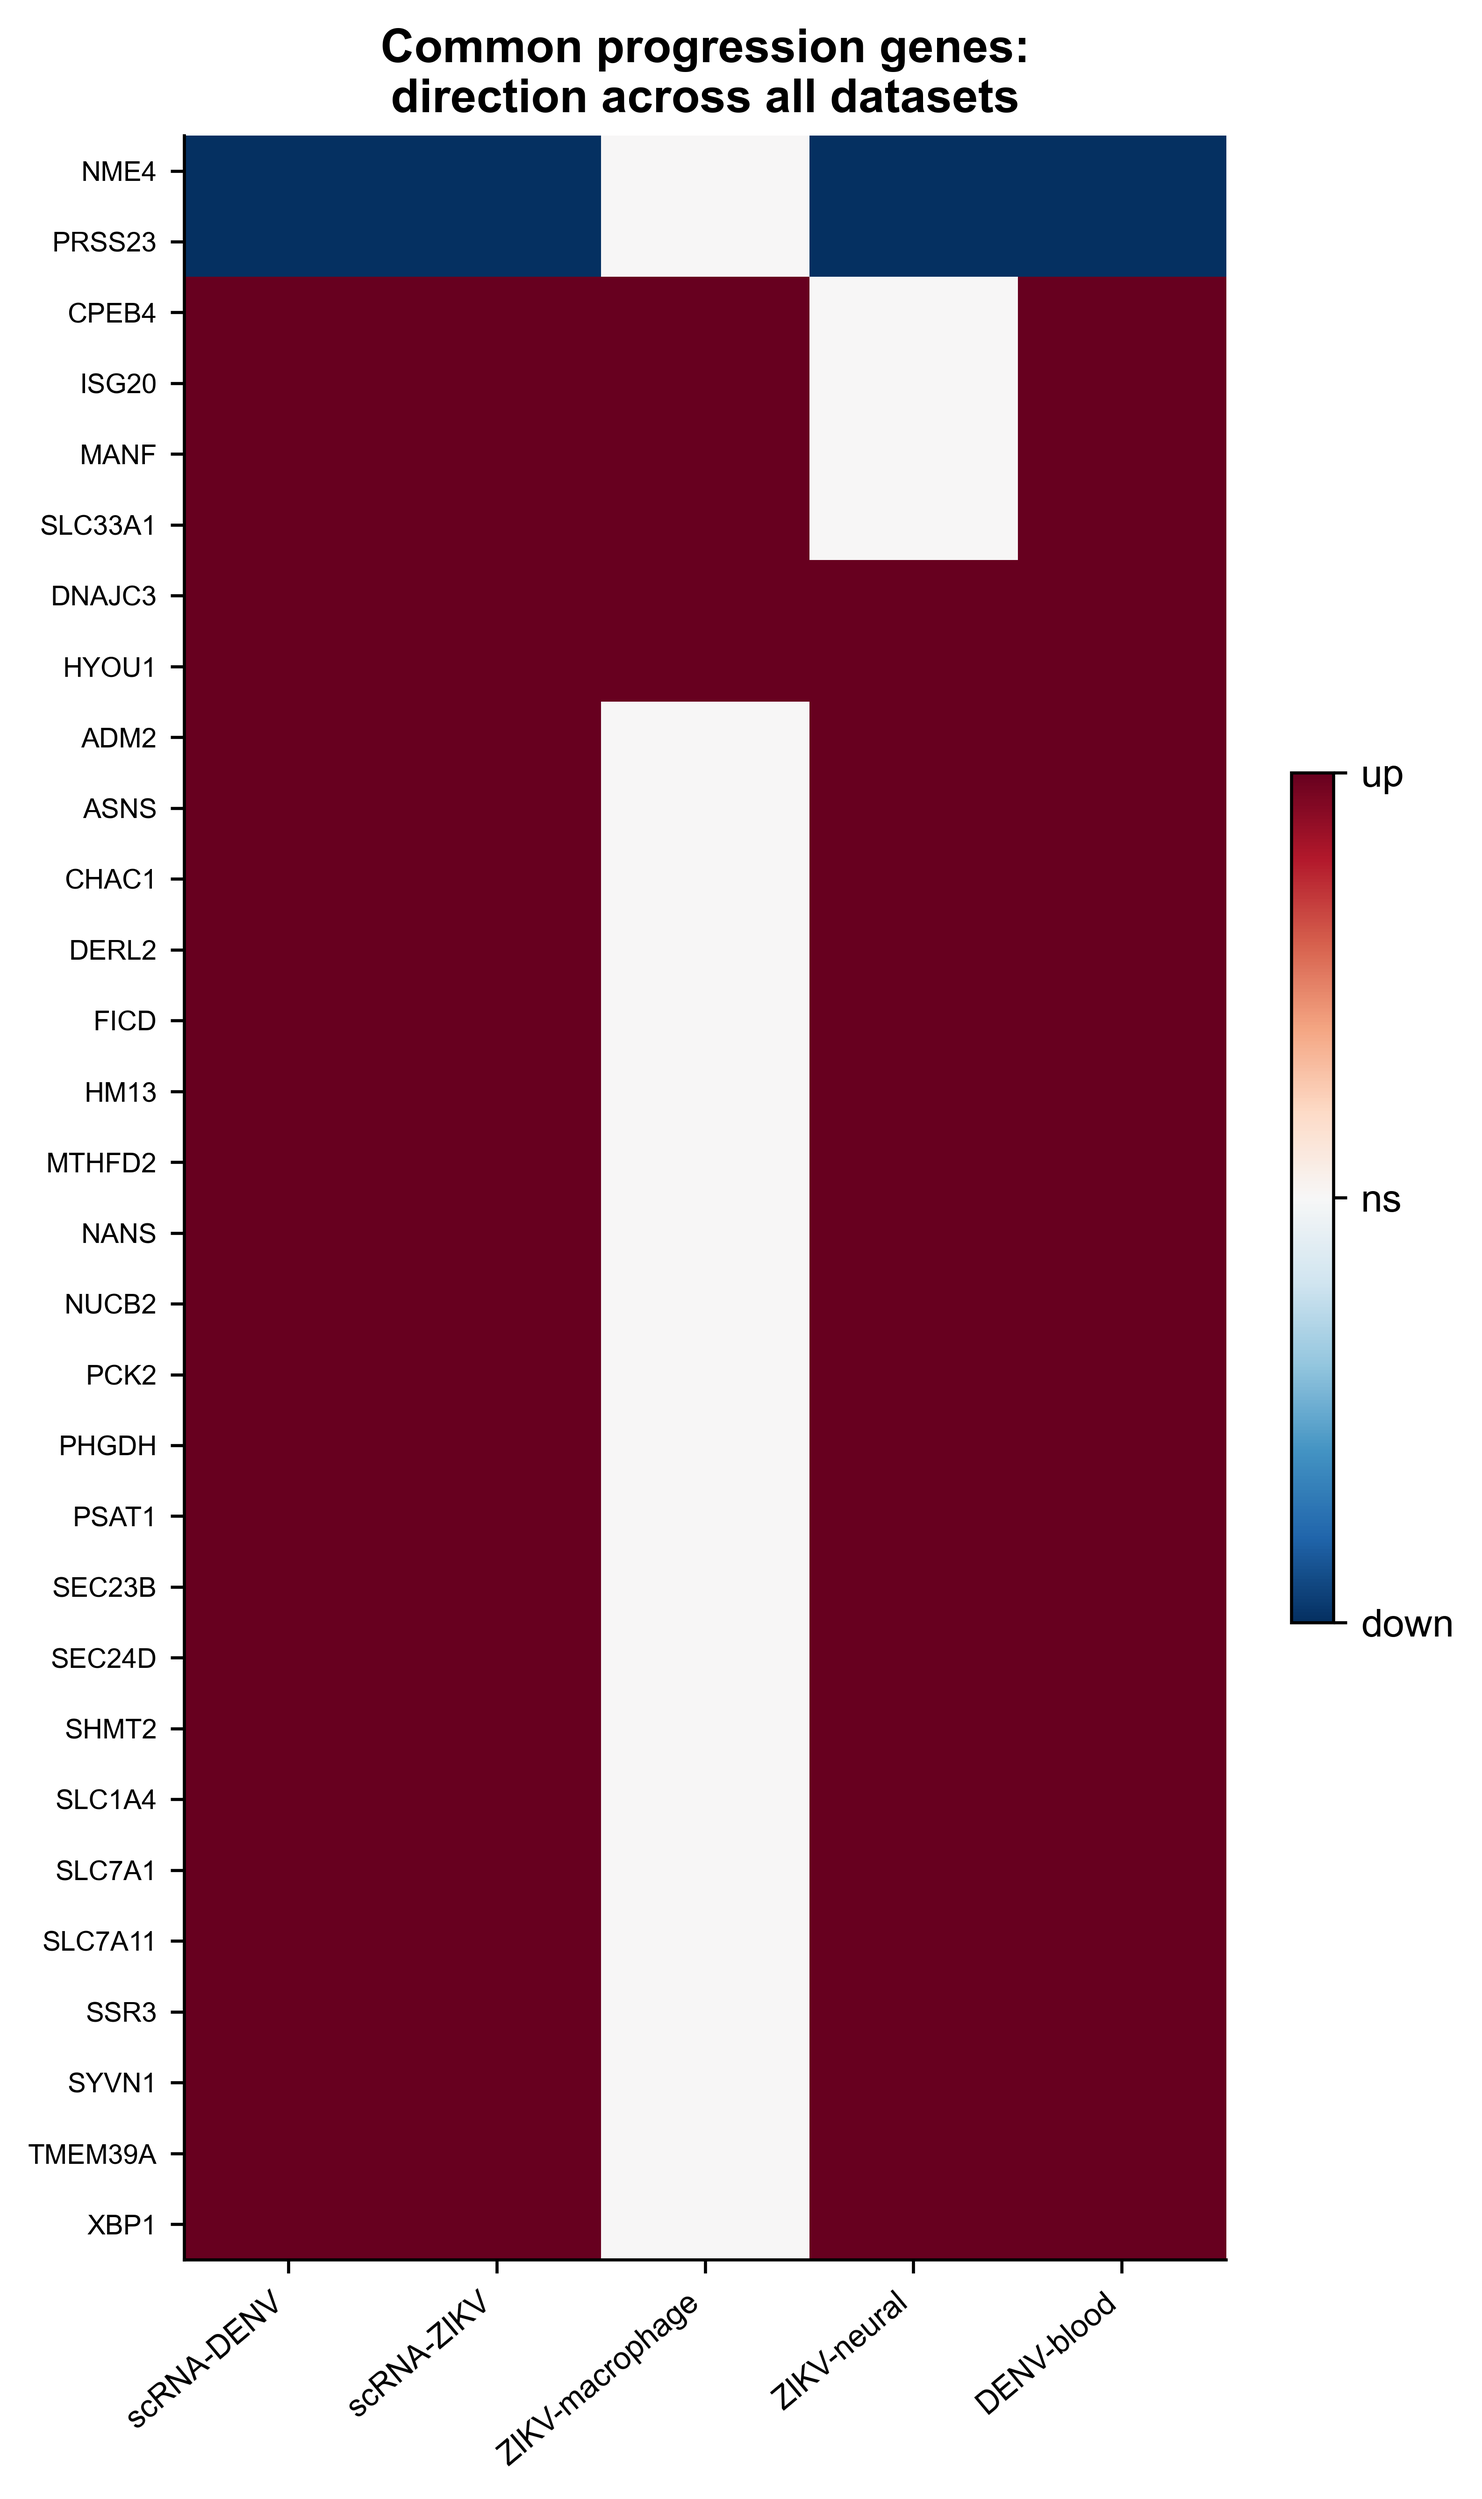
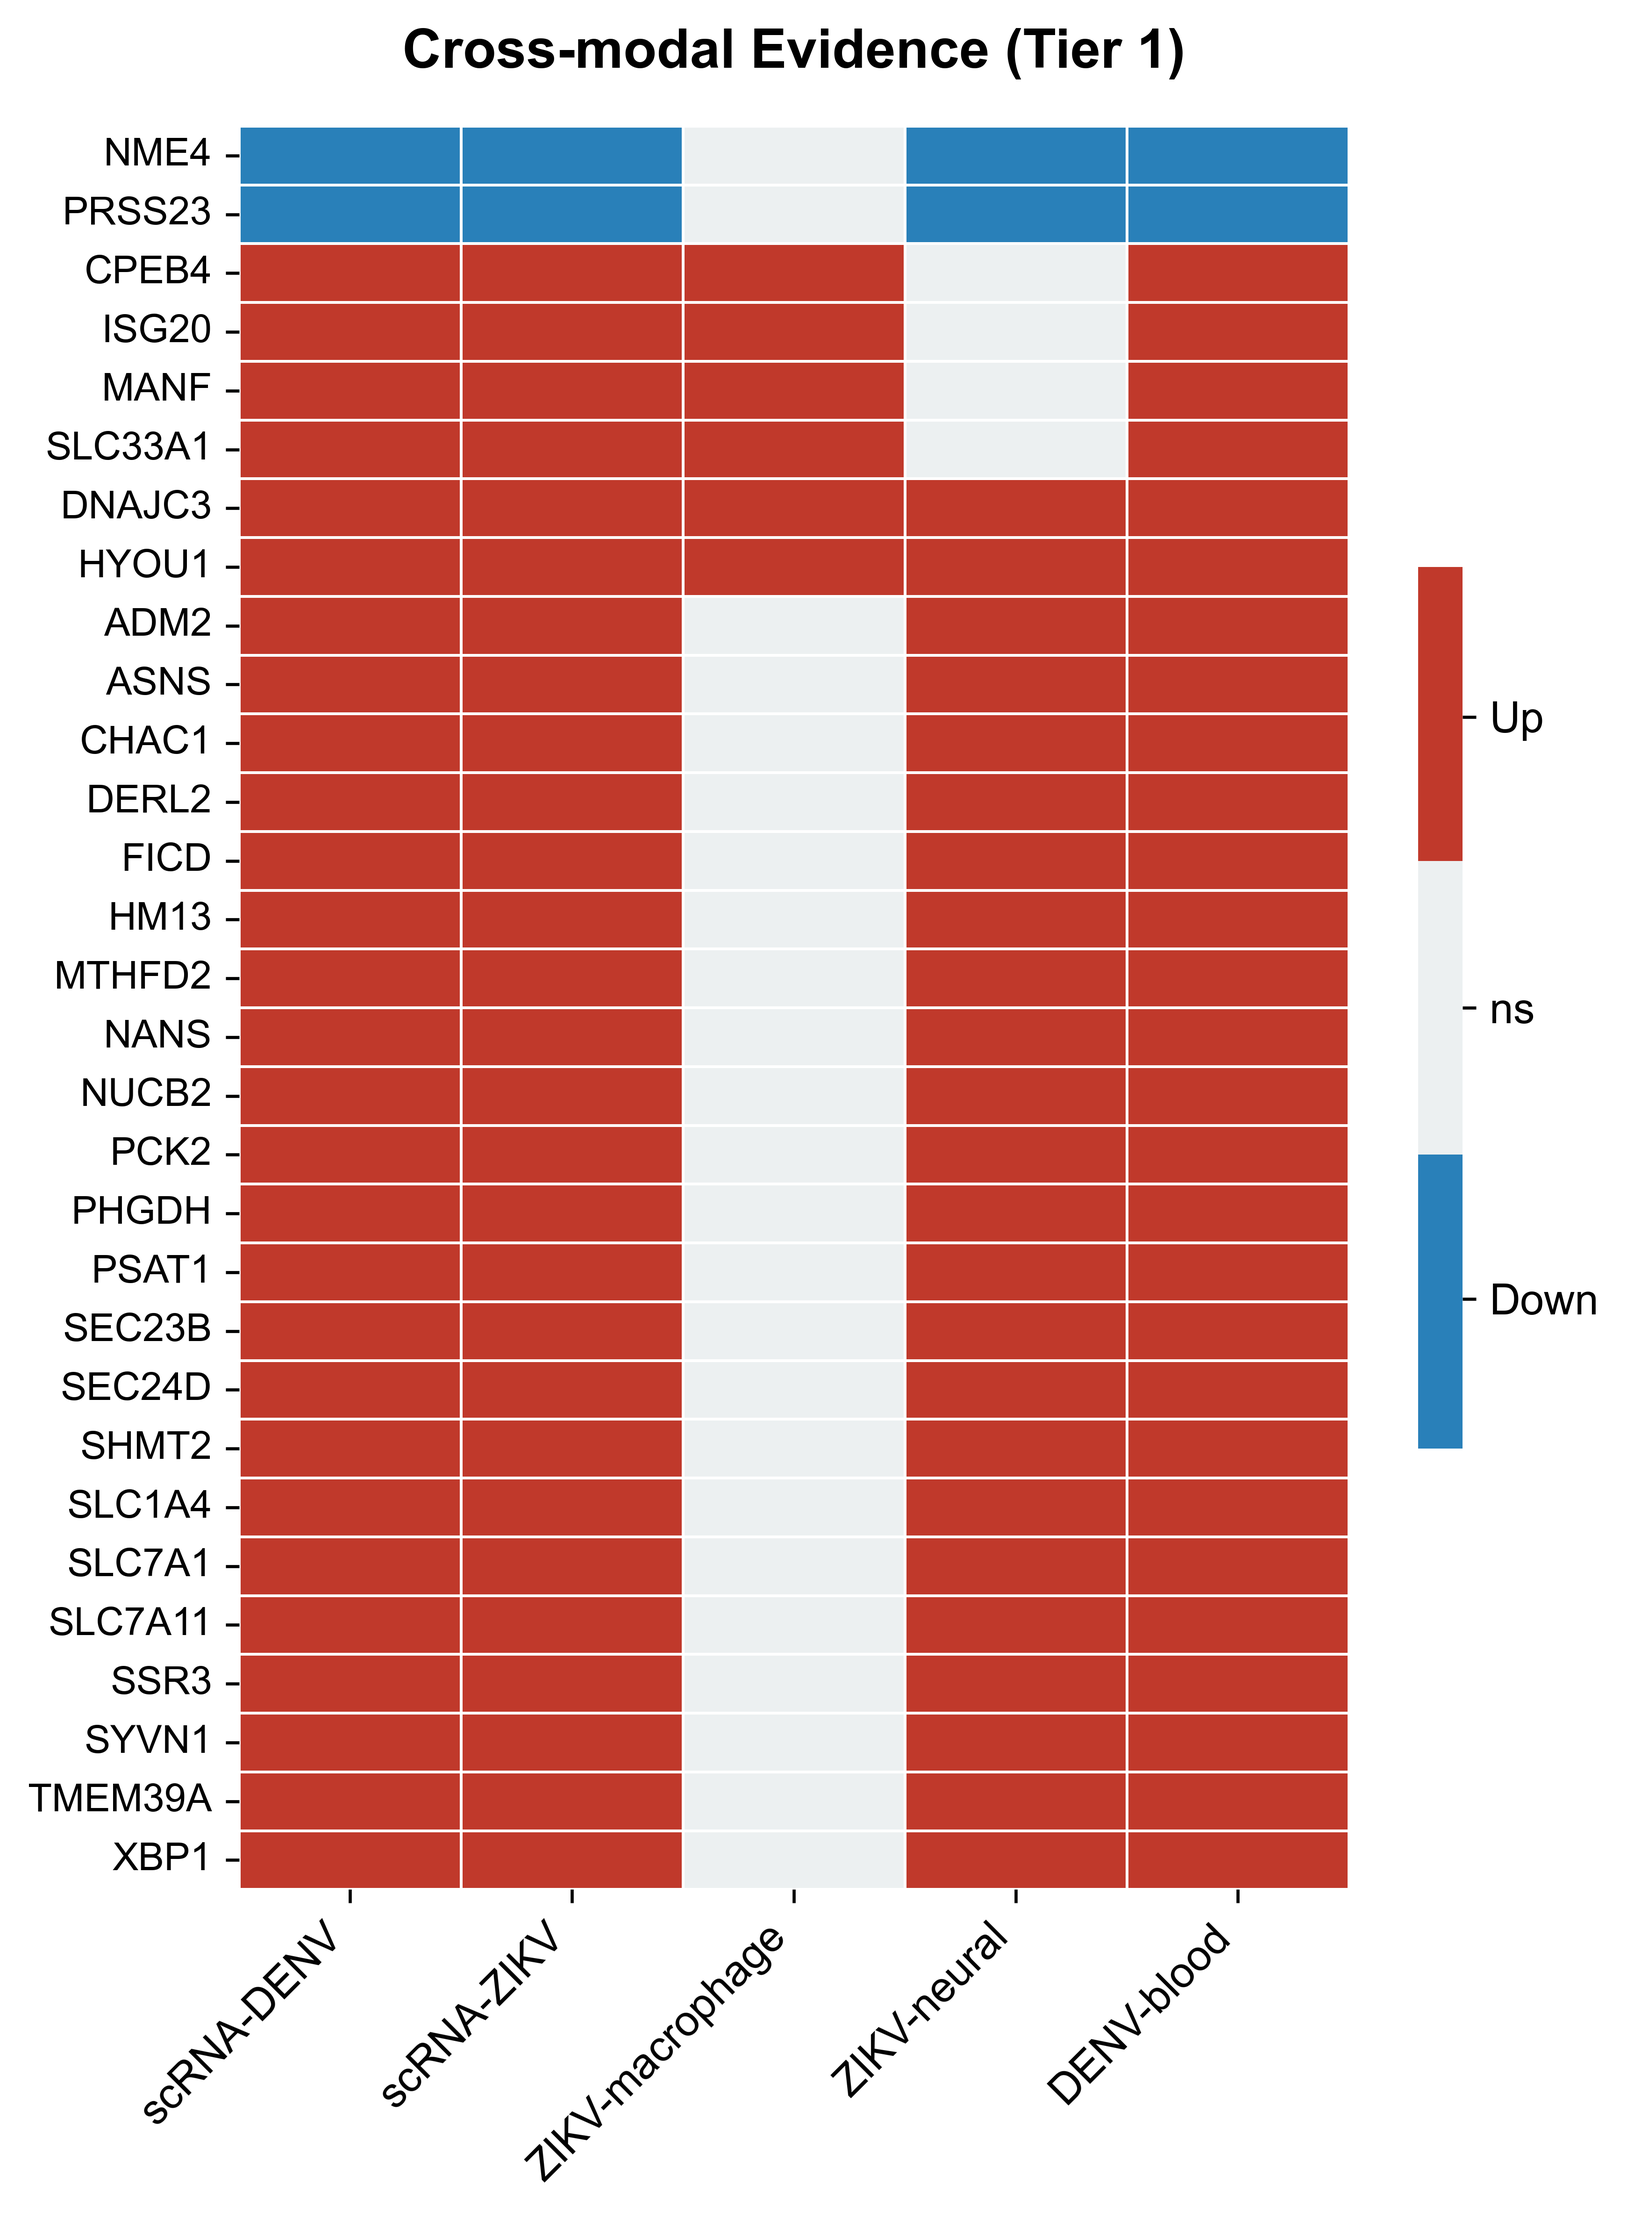
Refine Fig 3 to top 50 genes and redesign Fig 5 to discrete heatmap

diff --git a/Step08_figures/Step08_figures.py b/Step08_figures/Step08_figures.py
@@ -188,19 +188,20 @@ def generate_figure_3(s4_dir: Path, pub_dir: Path, dpi: int, logger: logging.Log
     c = pd.read_csv(path)
     hm = c[c["concordant"] == True].set_index("symbol")[["DENV_log2FC", "ZIKV_log2FC"]].sort_values("DENV_log2FC")
     
-    # Calculate dynamic height: 0.15 inches per gene, min 6 inches
-    height = max(6.0, len(hm) * 0.15)
+    # Restrict to top 25 up and top 25 down genes for publication readability
+    if len(hm) > 50:
+        hm = pd.concat([hm.head(25), hm.tail(25)])
     
-    fig, a = plt.subplots(figsize=(4, height))
+    fig, a = plt.subplots(figsize=(4, 8))
     im = a.imshow(hm.values, cmap="RdBu_r", vmin=-3, vmax=3, aspect="auto")
     
     a.set_xticks([0, 1])
     a.set_xticklabels(["DENV", "ZIKV"], fontsize=12)
     
     a.set_yticks(range(len(hm)))
-    a.set_yticklabels(hm.index, fontsize=8)
+    a.set_yticklabels(hm.index, fontsize=9)
         
-    a.set_title("Convergent core", fontsize=14, pad=10, fontweight="bold")
+    a.set_title("Convergent core (Top 50)", fontsize=14, pad=10, fontweight="bold")
     
     # Adjust colorbar to be nicely proportioned
     from mpl_toolkits.axes_grid1 import make_axes_locatable
@@ -268,17 +269,30 @@ def generate_figure_5(s6_dir: Path, pub_dir: Path, dpi: int, logger: logging.Log
         "DENV-blood": t1["DENV_blood"].map(dm)
     }).sort_values(["scRNA-DENV", "ZIKV-neural"])
     
-    fig, a = plt.subplots(figsize=(5.5, 9))
-    im = a.imshow(M.values, cmap="RdBu_r", vmin=-1, vmax=1, aspect="auto")
+    fig, a = plt.subplots(figsize=(6, 8))
     
-    a.set_xticks(range(M.shape[1]))
-    a.set_xticklabels(M.columns, rotation=40, ha="right", fontsize=8)
-    a.set_yticks(range(len(M)))
-    a.set_yticklabels(M.index, fontsize=7)
-    a.set_title("Common progression genes:\ndirection across all datasets")
+    # Publication-ready discrete heatmap using seaborn
+    import seaborn as sns
+    from matplotlib.colors import ListedColormap
     
-    cb = plt.colorbar(im, ax=a, ticks=[-1, 0, 1], shrink=0.4)
-    cb.ax.set_yticklabels(["down", "ns", "up"])
+    # Colormap: Blue (-1), Light Grey (0), Red (1)
+    cmap = ListedColormap(["#2980b9", "#ecf0f1", "#c0392b"])
+    
+    # Missing values (absent) will be white natively if we use mask, but they are NaN. 
+    # Seaborn handles NaN by leaving it transparent/white.
+    sns.heatmap(M, cmap=cmap, vmin=-1, vmax=1, ax=a, 
+                linewidths=0.5, linecolor='white',
+                cbar_kws={"shrink": 0.5, "ticks": [-0.66, 0, 0.66]})
+                
+    a.set_xticklabels(a.get_xticklabels(), rotation=45, ha="right", fontsize=11)
+    a.set_yticklabels(a.get_yticklabels(), fontsize=10)
+    a.set_ylabel("")
+    a.set_title("Cross-modal Evidence (Tier 1)", fontsize=14, pad=15, fontweight="bold")
+    
+    # Fix colorbar labels
+    cbar = a.collections[0].colorbar
+    cbar.set_ticklabels(["Down", "ns", "Up"])
+    cbar.ax.tick_params(labelsize=11) 
     
     fig.tight_layout()
     save_fig(fig, pub_dir, "Figure5_crossmodal_evidence_heatmap", dpi, logger)
